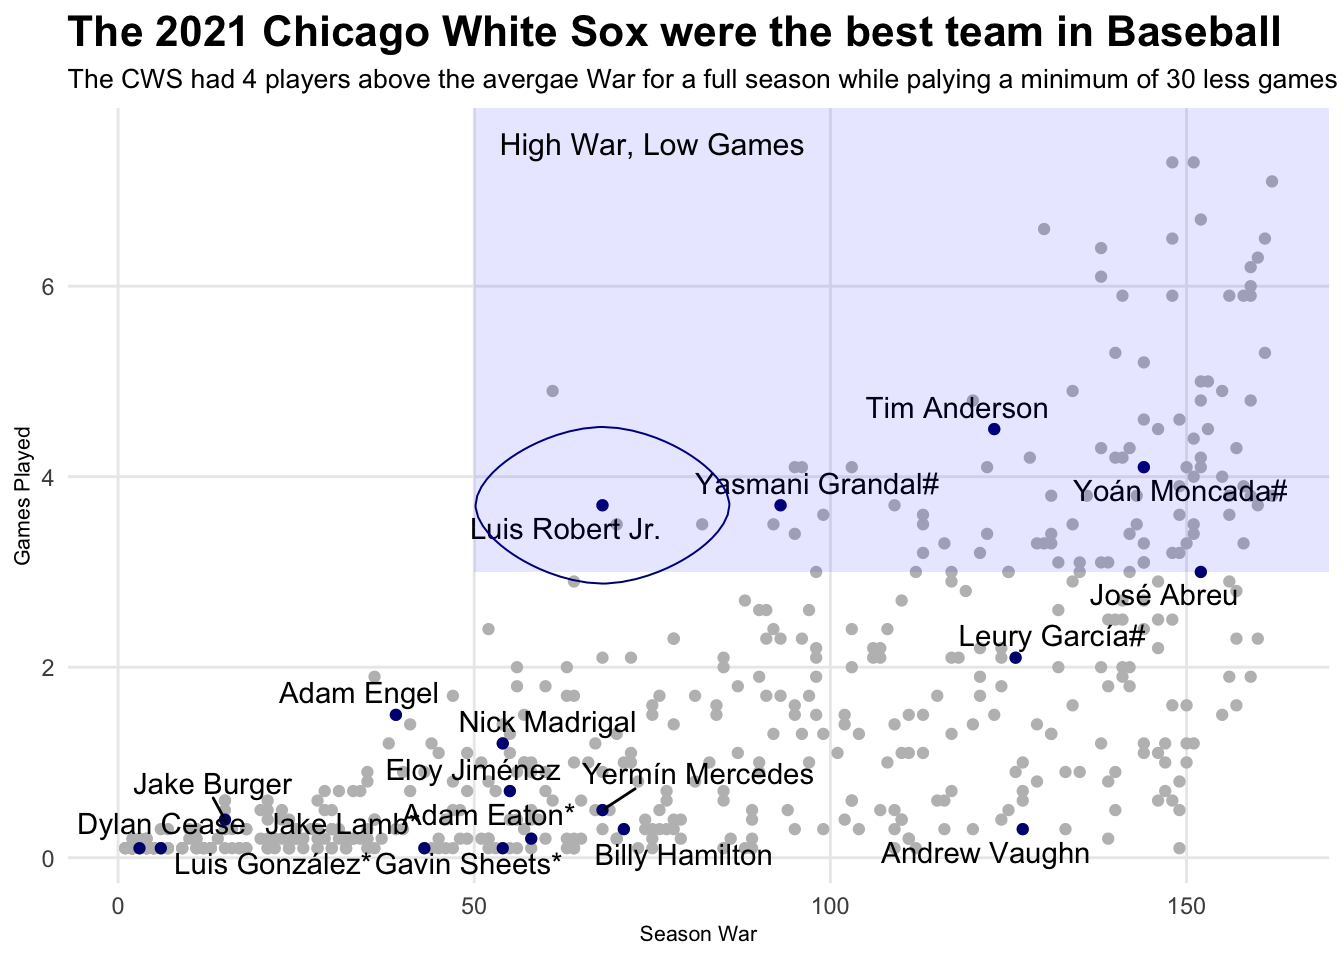
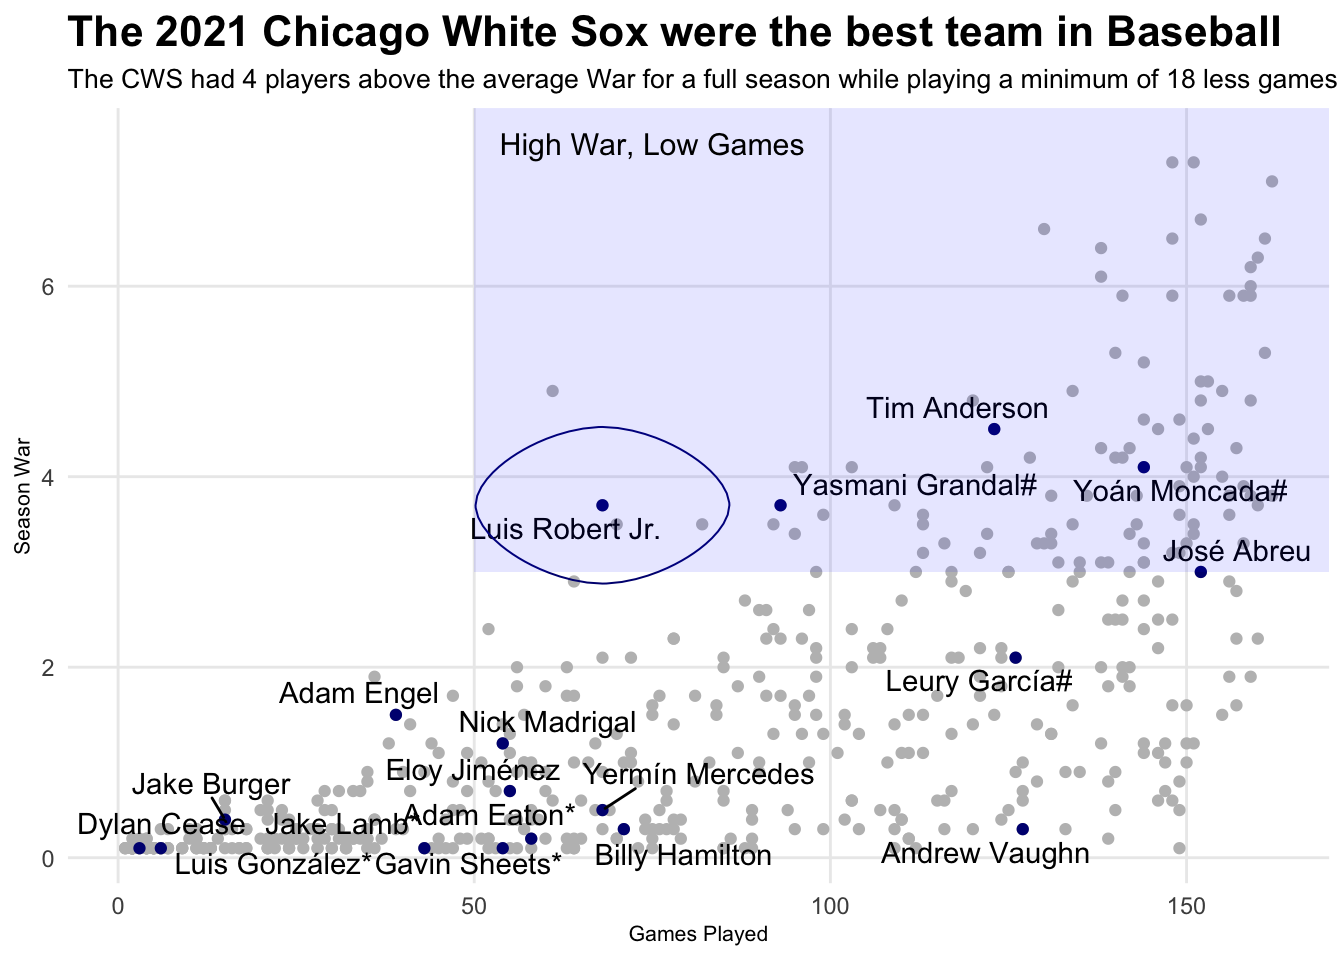
Fixed spelling and subtitle

diff --git a/posts/mlb-baseball-whitesox-2021-season-best-team-in-the-league/index.html b/posts/mlb-baseball-whitesox-2021-season-best-team-in-the-league/index.html
@@ -298,7 +298,7 @@ pre > code.sourceCode > span > a:first-child::before { text-decoration: underlin
             <ul class="navbar-nav navbar-nav-scroll ms-auto">
   <li class="nav-item">
     <a class="nav-link" href="../../about.html"> 
-<span class="menu-text">About</span></a>
+<span class="menu-text">About Me</span></a>
   </li>  
   <li class="nav-item compact">
     <a class="nav-link" href="https://github.com/milesdurkin"> <i class="bi bi-github" role="img">
@@ -401,7 +401,7 @@ dbl (29): Rk, Age, WAR, G, PA, AB, R, H, 2B, 3B, HR, RBI, SB, CS, BB, SO, BA...
 <span id="cb4-11"><a href="#cb4-11" aria-hidden="true" tabindex="-1"></a>        <span class="at">xmin =</span> <span class="dv">50</span>, <span class="at">xmax =</span> <span class="cn">Inf</span>,</span>
 <span id="cb4-12"><a href="#cb4-12" aria-hidden="true" tabindex="-1"></a>        <span class="at">ymin =</span> <span class="dv">3</span>, <span class="at">ymax =</span> <span class="cn">Inf</span>) <span class="sc">+</span></span>
 <span id="cb4-13"><a href="#cb4-13" aria-hidden="true" tabindex="-1"></a>  <span class="fu">geom_text</span>(<span class="fu">aes</span>(<span class="at">x=</span><span class="dv">75</span>, <span class="at">y=</span><span class="fl">7.5</span>, <span class="at">label=</span><span class="st">"High War, Low Games"</span>), <span class="at">size=</span><span class="dv">4</span>) <span class="sc">+</span></span>
-<span id="cb4-14"><a href="#cb4-14" aria-hidden="true" tabindex="-1"></a>  <span class="fu">labs</span>(<span class="at">title=</span><span class="st">"The 2021 Chicago White Sox were the best team in Baseball"</span>, <span class="at">subtitle=</span><span class="st">"The CWS had 4 players above the avergae War for a full season while palying a minimum of 30 less games"</span>, <span class="at">x=</span><span class="st">"Season War"</span>, <span class="at">y=</span><span class="st">"Games Played"</span>) <span class="sc">+</span> </span>
+<span id="cb4-14"><a href="#cb4-14" aria-hidden="true" tabindex="-1"></a>  <span class="fu">labs</span>(<span class="at">title=</span><span class="st">"The 2021 Chicago White Sox were the best team in Baseball"</span>, <span class="at">subtitle=</span><span class="st">"The CWS had 4 players above the average War for a full season while playing a minimum of 18 less games"</span>, <span class="at">x=</span><span class="st">"Games Played"</span>, <span class="at">y=</span><span class="st">"Season War"</span>) <span class="sc">+</span> </span>
 <span id="cb4-15"><a href="#cb4-15" aria-hidden="true" tabindex="-1"></a>  <span class="fu">theme_minimal</span>() <span class="sc">+</span> </span>
 <span id="cb4-16"><a href="#cb4-16" aria-hidden="true" tabindex="-1"></a>  <span class="fu">theme</span>(</span>
 <span id="cb4-17"><a href="#cb4-17" aria-hidden="true" tabindex="-1"></a>    <span class="at">plot.title =</span> <span class="fu">element_text</span>(<span class="at">size =</span> <span class="dv">16</span>, <span class="at">face =</span> <span class="st">"bold"</span>),</span>

diff --git a/index.html b/index.html
@@ -321,7 +321,7 @@ window.Quarto = {
             <ul class="navbar-nav navbar-nav-scroll ms-auto">
   <li class="nav-item">
     <a class="nav-link" href="./about.html"> 
-<span class="menu-text">About</span></a>
+<span class="menu-text">About Me</span></a>
   </li>  
   <li class="nav-item compact">
     <a class="nav-link" href="https://github.com/milesdurkin"> <i class="bi bi-github" role="img">
@@ -373,7 +373,7 @@ window.Quarto = {
 
 <div class="quarto-listing quarto-listing-container-default" id="listing-listing">
 <div class="list quarto-listing-default">
-<div class="quarto-post image-right" data-index="0" data-categories="bWxiJTJDYmFzZWJhbGwlMkN3aGl0ZXNveA==" data-listing-date-sort="1775797200000" data-listing-file-modified-sort="1775770153379" data-listing-date-modified-sort="NaN" data-listing-reading-time-sort="2" data-listing-word-count-sort="210">
+<div class="quarto-post image-right" data-index="0" data-categories="bWxiJTJDYmFzZWJhbGwlMkN3aGl0ZXNveA==" data-listing-date-sort="1775797200000" data-listing-file-modified-sort="1775773027338" data-listing-date-modified-sort="NaN" data-listing-reading-time-sort="2" data-listing-word-count-sort="210">
 <div class="thumbnail"><a href="./posts/mlb-baseball-whitesox-2021-season-best-team-in-the-league/index.html" class="no-external">
 
 <img loading="lazy" src="./posts/mlb-baseball-whitesox-2021-season-best-team-in-the-league/image.png" class="thumbnail-image">
